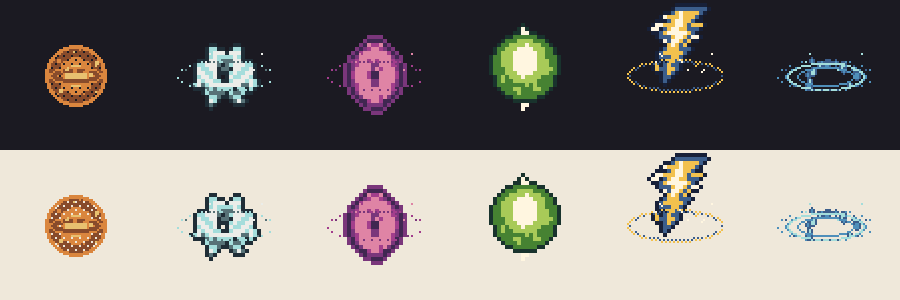
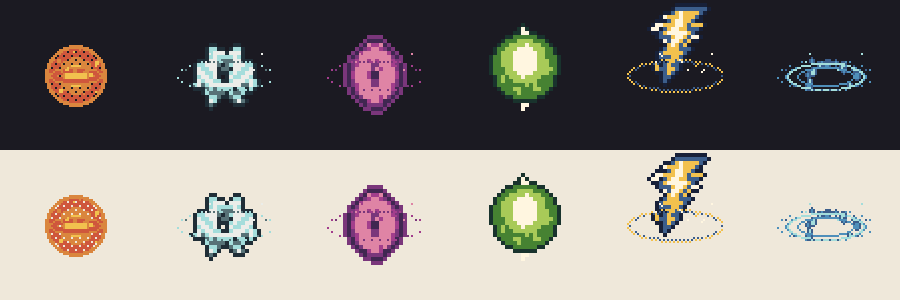
Fire tones hotter inside the Apollo palette
Claude-Session: https://claude.ai/code/session_019ETFw2Y7wpHSXWG5mmACty

Changed region(s): [[0.0311, 0.66, 0.1244, 0.84], [0.0311, 0.15, 0.1244, 0.36]]

diff --git a/lib/theme/palette.dart b/lib/theme/palette.dart
@@ -268,10 +268,10 @@ abstract final class ApolloTones {
   ApolloTones._();
 
   static const List<int> fire = [
-    0xFFE8C170,
+    0xFFF2C14E,
     0xFFDA863E,
-    0xFF884B2B,
-    0xFF341C27
+    0xFFCF573C,
+    0xFF752438
   ];
   static const List<int> water = [
     0xFFA4DDDB,
